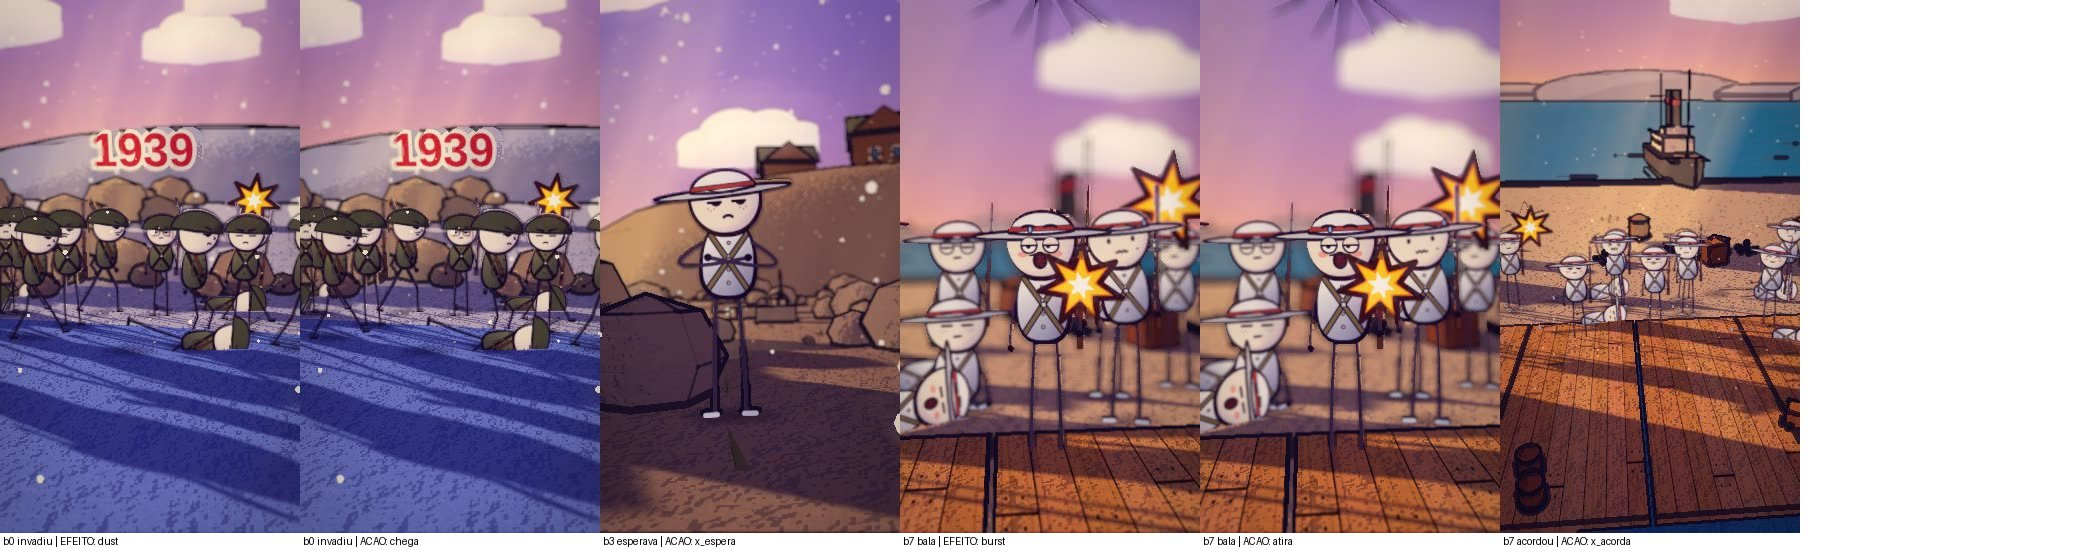
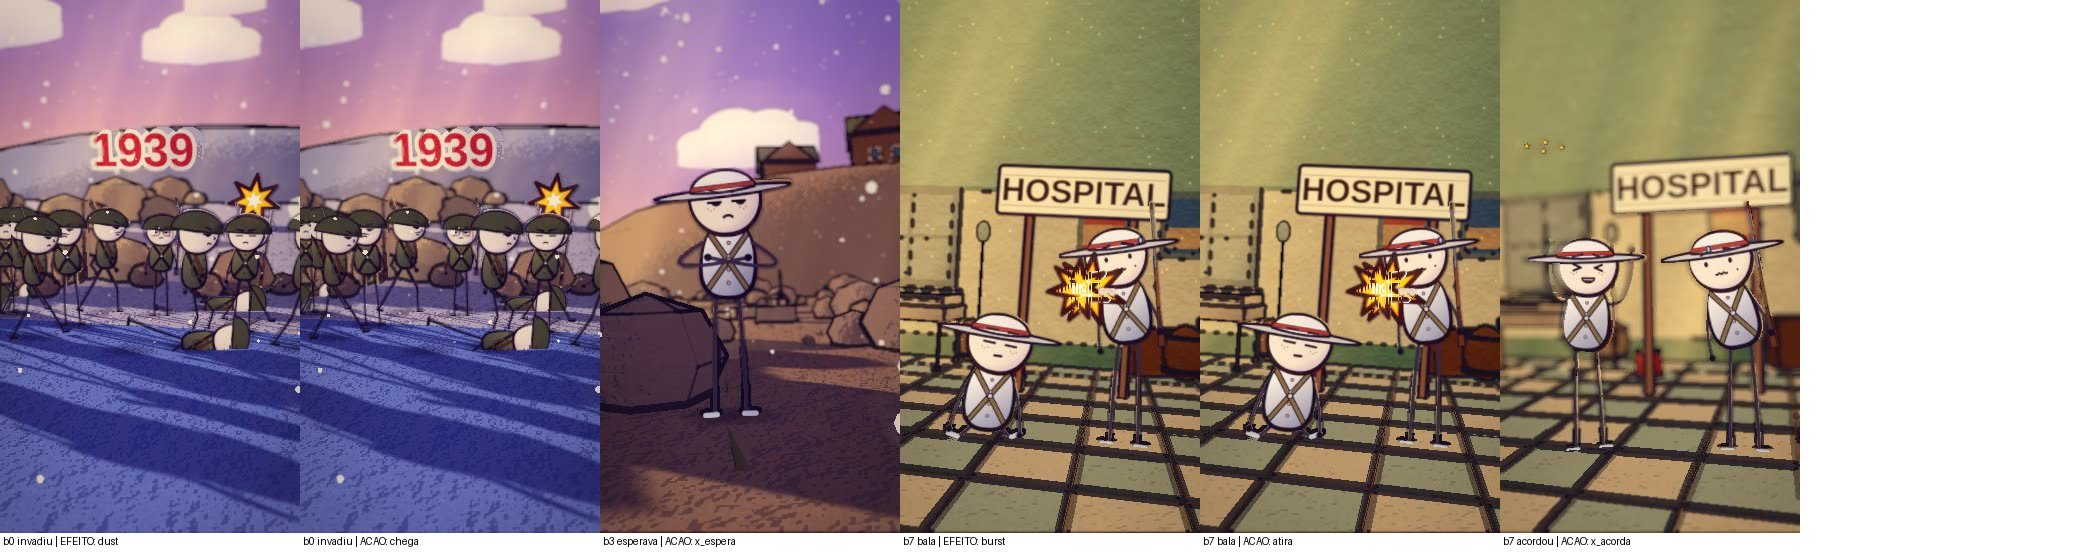
hayha aprovado

diff --git a/ferramenta-shorts/stories/hayha1939/revisao_storyboard.md b/ferramenta-shorts/stories/hayha1939/revisao_storyboard.md
@@ -1,0 +1,9 @@
+b0: OK - cena confere com a frase: Inverno de mil novecentos e trinta e nove. A União Soviética invadiu a Finlândia,
+b1: OK - cena confere com a frase: Os soldados finlandeses eram poucos, mas conheciam a floresta, a neve e o frio,
+b2: OK - cena confere com a frase: Um deles era um fazendeiro baixinho chamado Simo Häyhä.
+b3: OK - cena confere com a frase: Vestido de branco, ele esperava imóvel no meio da neve, horas a fio.
+b4: OK - cena confere com a frase: Dizem que ele mantinha neve na boca, para o vapor da respiração não entregar
+b5: OK - cena confere com a frase: Em cerca de cem dias, ele teve mais de quinhentos inimigos confirmados, com uma
+b6: OK - cena confere com a frase: Os soviéticos passaram a chamá-lo de Morte Branca.
+b7: OK - cena confere com a frase: Em março de mil novecentos e quarenta, uma bala atingiu o rosto dele. Ele
+b8: OK - cena confere com a frase: Viveu até os noventa e seis anos, e nunca se achou herói. Dizia que
